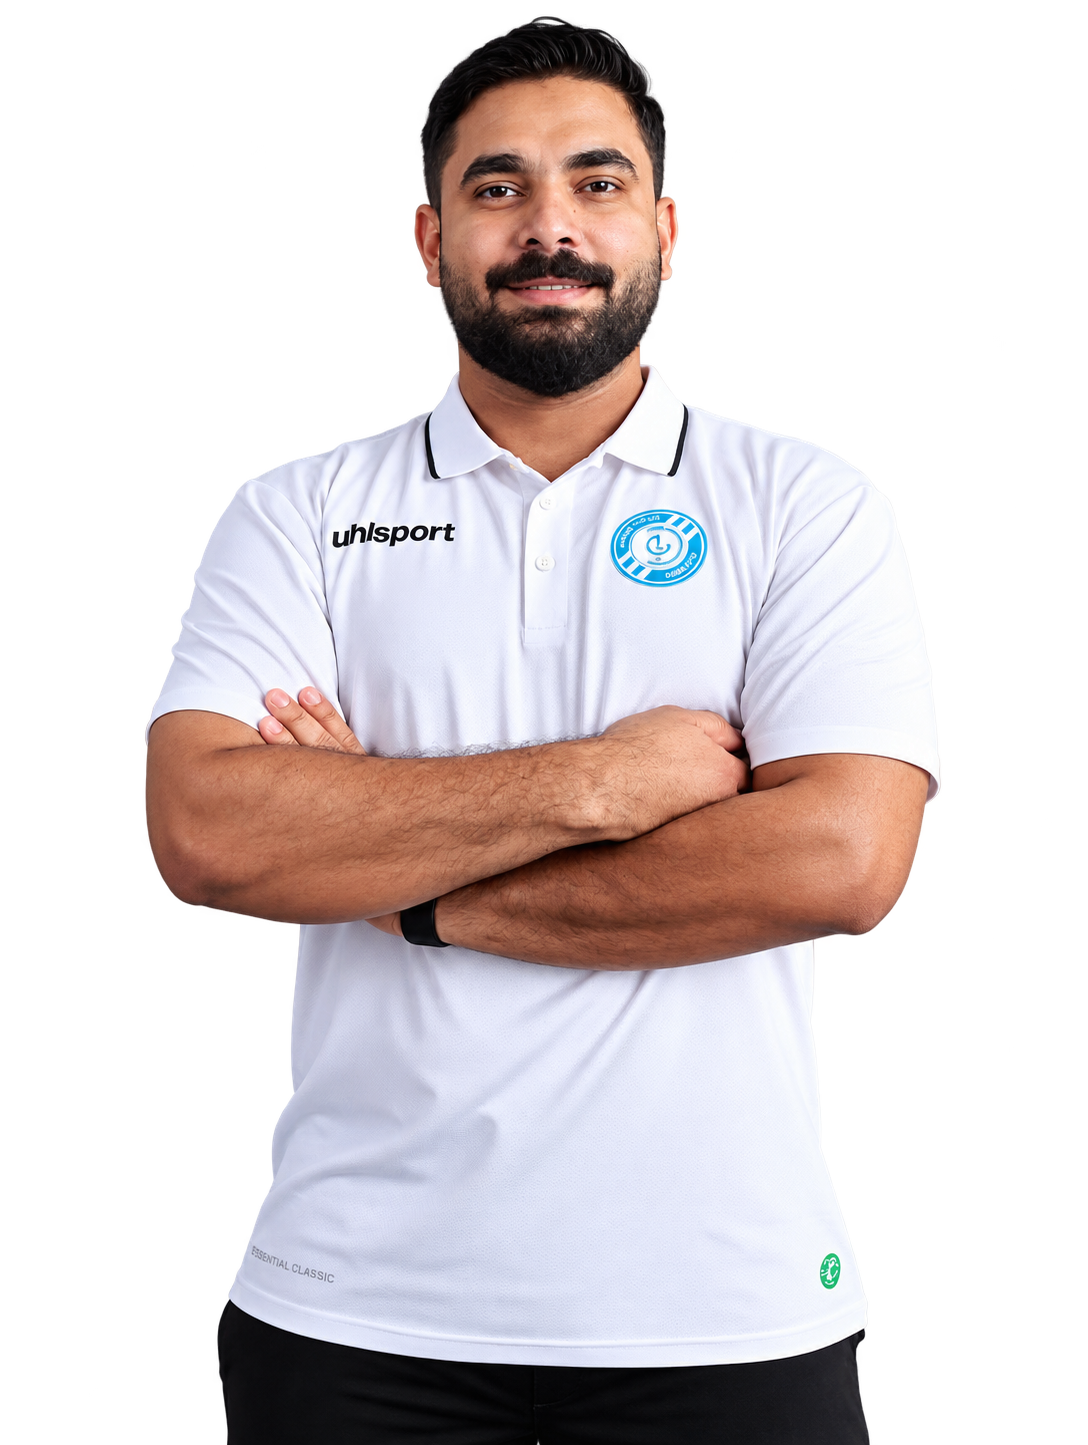
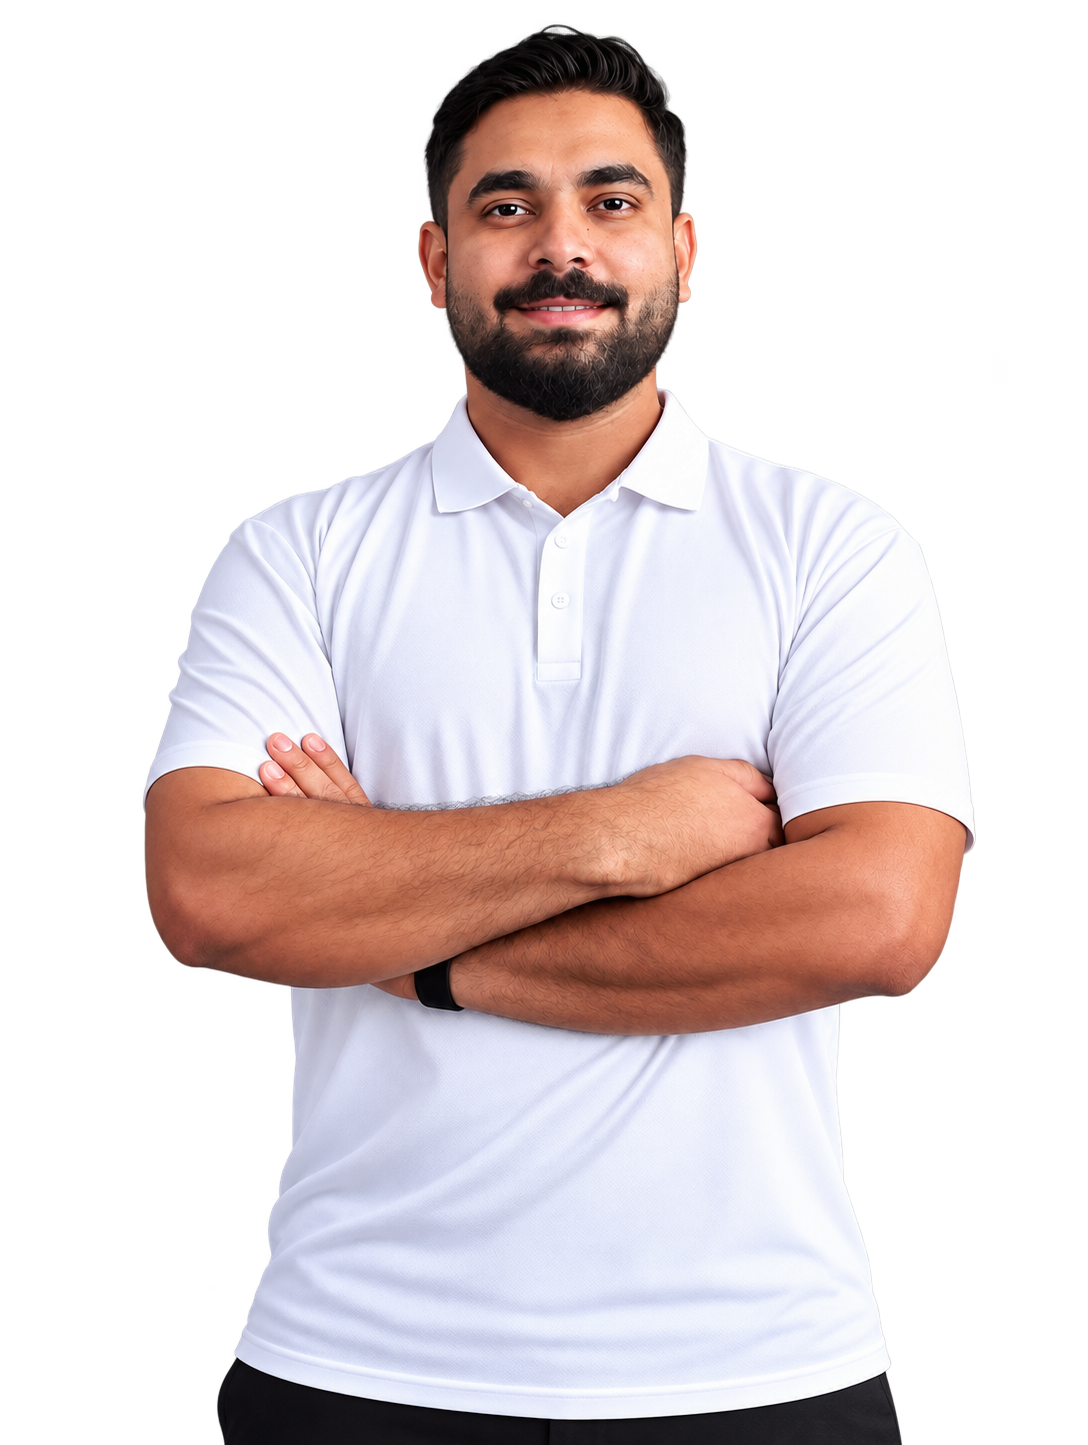
Improve portfolio text readability and styling

Changed region(s): [[0.125, 0.0, 0.9062, 1.0], [0.4375, 0.7785, 0.4688, 0.8097]]

diff --git a/index.html b/index.html
@@ -104,7 +104,7 @@
           </div>
         </div>
         <div class="hero-credential" aria-label="Professional credentials">
-          <span>PTRP</span><i></i><span>MOHPT</span><i></i><span>Cert.MFR</span><i></i><span>KTT</span>
+          <span>DUBAI HEALTH AUTHORITY PHYSIOTHERAPIST</span><i></i><span>MINISTRY OF HEALTH PHYSIOTHERAPIST</span><i></i><span>CERTIFIED MYOFASCIAL RELEASE</span><i></i><span>CERTIFIED KINESIOLOGY TAPING</span>
         </div>
         <div class="hero-location"><span class="location-dot"></span> DIBBA AL FUJAIRAH, UAE</div>
       </div>
@@ -220,8 +220,53 @@
 
     <section class="credentials-section">
       <div class="section credentials-grid">
-        <div class="reveal"><div class="section-kicker"><span>05 / CREDENTIALS</span><span class="kicker-rule"></span></div><p class="eyebrow">PROFESSIONAL CREDENTIALS</p><h2>Built on learning.<br><em>Guided by care.</em></h2><p class="credentials-note">Credentials are displayed as supplied. Their full titles and issuing institutions can be added once confirmed.</p></div>
-        <div class="credential-list reveal"><div><span>01</span><strong>PTRP</strong><span class="credential-mark">↗</span></div><div><span>02</span><strong>MOHPT</strong><span class="credential-mark">↗</span></div><div><span>03</span><strong>Cert.MFR</strong><span class="credential-mark">↗</span></div><div><span>04</span><strong>KTT</strong><span class="credential-mark">↗</span></div></div>
+        <div class="reveal"><div class="section-kicker"><span>05 / CREDENTIALS</span><span class="kicker-rule"></span></div><p class="eyebrow">PROFESSIONAL CREDENTIALS</p><h2>Built on learning.<br><em>Guided by care.</em></h2></div>
+
+
+    <div class="credential-list reveal">
+    <div>
+        <span>01</span>
+        <strong>Dubai Health Authority Physiotherapist</strong>
+        <span class="credential-mark">↗</span>
+    </div>
+
+    <div>
+        <span>02</span>
+        <strong>Ministry of Health Physiotherapist</strong>
+        <span class="credential-mark">↗</span>
+    </div>
+
+    <div>
+        <span>03</span>
+        <strong>Cert. Myofascial Release Techniques</strong>
+        <span class="credential-mark">↗</span>
+    </div>
+
+    <div>
+        <span>04</span>
+        <strong>Cert. Manual Therapy</strong>
+        <span class="credential-mark">↗</span>
+    </div>
+
+    <div>
+        <span>05</span>
+        <strong>Cert. Kinesiology Taping Techniques</strong>
+        <span class="credential-mark">↗</span>
+    </div>
+
+    <div>
+        <span>06</span>
+        <strong>Cert. Cupping Therapy</strong>
+        <span class="credential-mark">↗</span>
+    </div>
+
+    <div>
+        <span>07</span>
+        <strong>Cert. Instrument-Assisted Soft Tissue Mobilization (IASTM)</strong>
+        <span class="credential-mark">↗</span>
+    </div>
+    </div>
+
       </div>
     </section>
 
@@ -243,8 +288,10 @@
         <div class="contact-grid">
           <div class="contact-copy reveal"><p class="eyebrow">LET'S MOVE FORWARD</p><h2>Let’s get you<br>moving <em>again.</em></h2><p>For professional enquiries, collaboration, or to ask about current appointment availability, get in touch.</p>
             <div class="contact-details">
-              <a href="mailto:adinanap4@gmail.com"><span class="detail-label">EMAIL</span><span>adinanap4@gmail.com ↗</span></a>
-              <a href="tel:+971508206998"><span class="detail-label">PHONE</span><span>+971 50 820 6998 ↗</span></a>
+              <a href="mailto:adnankhalid441@gmail.com"><span class="detail-label">EMAIL</span><span>adnankhalid441@gmail.com ↗</span></a>
+              <a href="tel:+971509206998"><span class="detail-label">PHONE</span><span>+971 50 920 6998 ↗</span></a>
+              <a href="tel:+919747641082"><span class="detail-label">PHONE</span><span>+91 97476 41082 ↗</span></a>
+
               <div><span class="detail-label">LOCATION</span><span>Dibba Al Fujairah, United Arab Emirates</span></div>
               <a href="https://www.linkedin.com/in/adinan-apparambil-ptrp-mohpt-cert-mfr-ktt-0217b3223/" target="_blank" rel="noreferrer"><span class="detail-label">LINKEDIN</span><span>View professional profile ↗</span></a>
             </div>
@@ -257,7 +304,6 @@
             <label for="message">How can I help? *</label><textarea id="message" name="message" rows="4" required placeholder="Tell me briefly what you would like to enquire about..."></textarea>
             <p class="form-status" id="form-status" role="status" aria-live="polite"></p>
             <button class="button button-dark form-submit" type="submit">SUBMIT <span aria-hidden="true">↗</span></button>
-            <p class="form-note">This demo opens your email app with a drafted message. It does not book an appointment or transmit data to a server.</p>
           </form>
         </div>
       </div>

diff --git a/style.css b/style.css
@@ -440,3 +440,151 @@ h2 em { color: var(--blue-gray); font-style: normal; }
         right: 10px;
     }
 }
+
+/* Dark & Sharp Stats Text Only */
+.stats-strip {
+    display: grid;
+    grid-template-columns: repeat(4, 1fr);
+    gap: 25px;
+    align-items: center;
+    background: transparent;
+    box-shadow: none;
+    border: none;
+    border-radius: 0;
+    padding: 35px 0;
+}
+
+.stats-strip .stat {
+    display: flex;
+    flex-direction: column;
+    gap: 10px;
+}
+
+.stats-strip .stat strong {
+    color: #102a43;
+    font-size: clamp(2.5rem, 4vw, 3.5rem);
+    font-weight: 800;
+    line-height: 1;
+    letter-spacing: -1.5px;
+    -webkit-font-smoothing: antialiased;
+}
+
+.stats-strip .stat strong span {
+    color: #168da5;
+    font-weight: 800;
+}
+
+.stats-strip .stat > span {
+    color: #243b53;
+    font-size: 0.9rem;
+    font-weight: 600;
+    letter-spacing: 0.3px;
+}
+
+.stats-strip .stat-note {
+    gap: 5px;
+}
+
+.stats-strip .stat-note span {
+    color: #102a43;
+    font-size: 0.85rem;
+    font-weight: 800;
+    letter-spacing: 1.5px;
+    line-height: 1.7;
+}
+
+@media (max-width: 768px) {
+    .stats-strip {
+        grid-template-columns: repeat(2, 1fr);
+        gap: 30px 20px;
+        padding: 25px 0;
+    }
+
+    .stats-strip .stat strong {
+        font-size: 2.4rem;
+    }
+}
+
+@media (max-width: 400px) {
+    .stats-strip .stat strong {
+        font-size: 2rem;
+    }
+
+    .stats-strip .stat > span {
+        font-size: 0.8rem;
+    }
+}
+
+
+/* EXPERIENCE SECTION — DARK & SHARP TEXT */
+
+.experience-section .section-kicker,
+.experience-section .eyebrow {
+    color: #183b4e;
+    font-weight: 700;
+}
+
+.experience-section .section-intro h2 {
+    color: #102a43;
+    font-weight: 800;
+    -webkit-text-stroke: 0.4px;
+}
+
+.experience-section .section-intro h2 em {
+    color: #244f60;
+    font-style: normal;
+    font-weight: 700;
+}
+
+.experience-section .intro-note {
+    color: #263f50;
+    font-weight: 600;
+    line-height: 1.8;
+}
+
+.experience-section .timeline-date {
+    color: #244658;
+    font-weight: 700;
+}
+
+.experience-section .timeline-type {
+    color: #244f60;
+    font-weight: 800;
+    letter-spacing: 1px;
+}
+
+.experience-section .timeline-content h3 {
+    color: #102a43;
+    font-weight: 800;
+    -webkit-text-stroke: 0.25px;
+}
+
+.experience-section .timeline-content h4 {
+    color: #183b4e;
+    font-weight: 700;
+}
+
+.experience-section .timeline-content > p:not(.timeline-type) {
+    color: #294456;
+    font-weight: 500;
+    line-height: 1.7;
+}
+
+.experience-section .timeline-tags span {
+    color: #183b4e;
+    font-weight: 600;
+}
+
+/* Keep timeline markers clearly visible */
+.experience-section .timeline-marker {
+    border-color: #527987;
+}
+
+/* Improve readability without changing the layout */
+.experience-section h2,
+.experience-section h3,
+.experience-section h4,
+.experience-section p,
+.experience-section span {
+    text-rendering: optimizeLegibility;
+}
